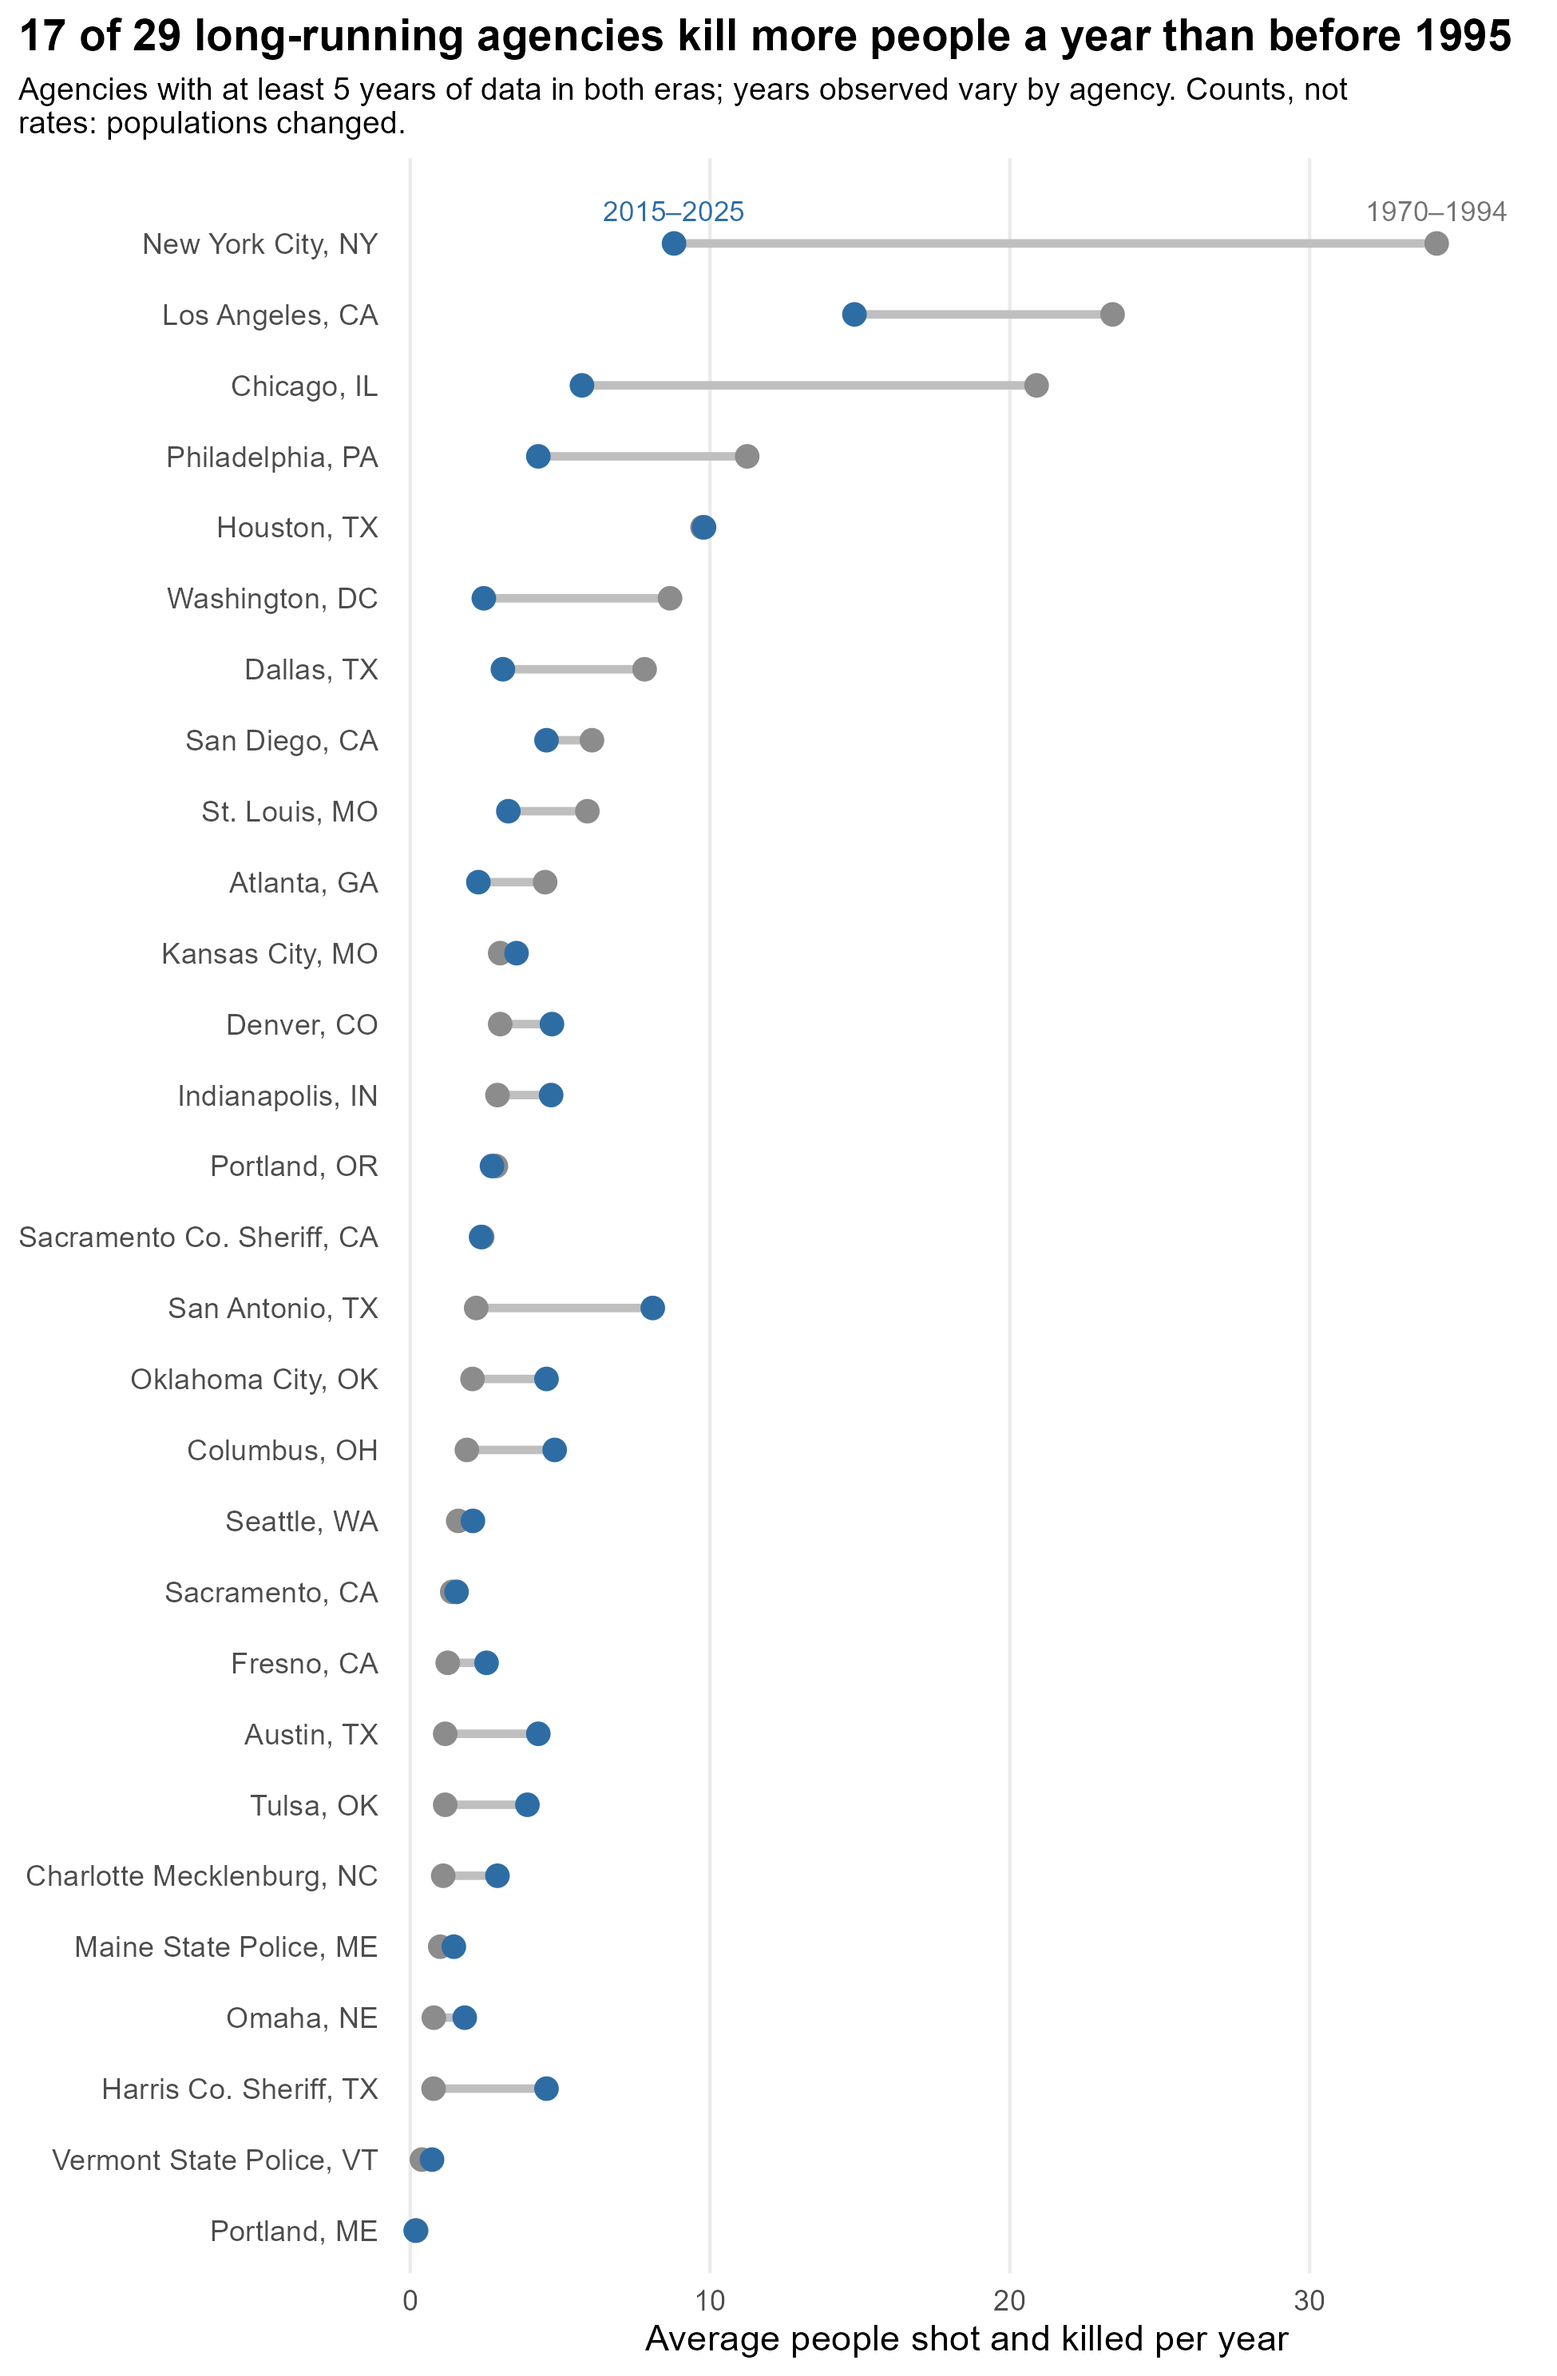
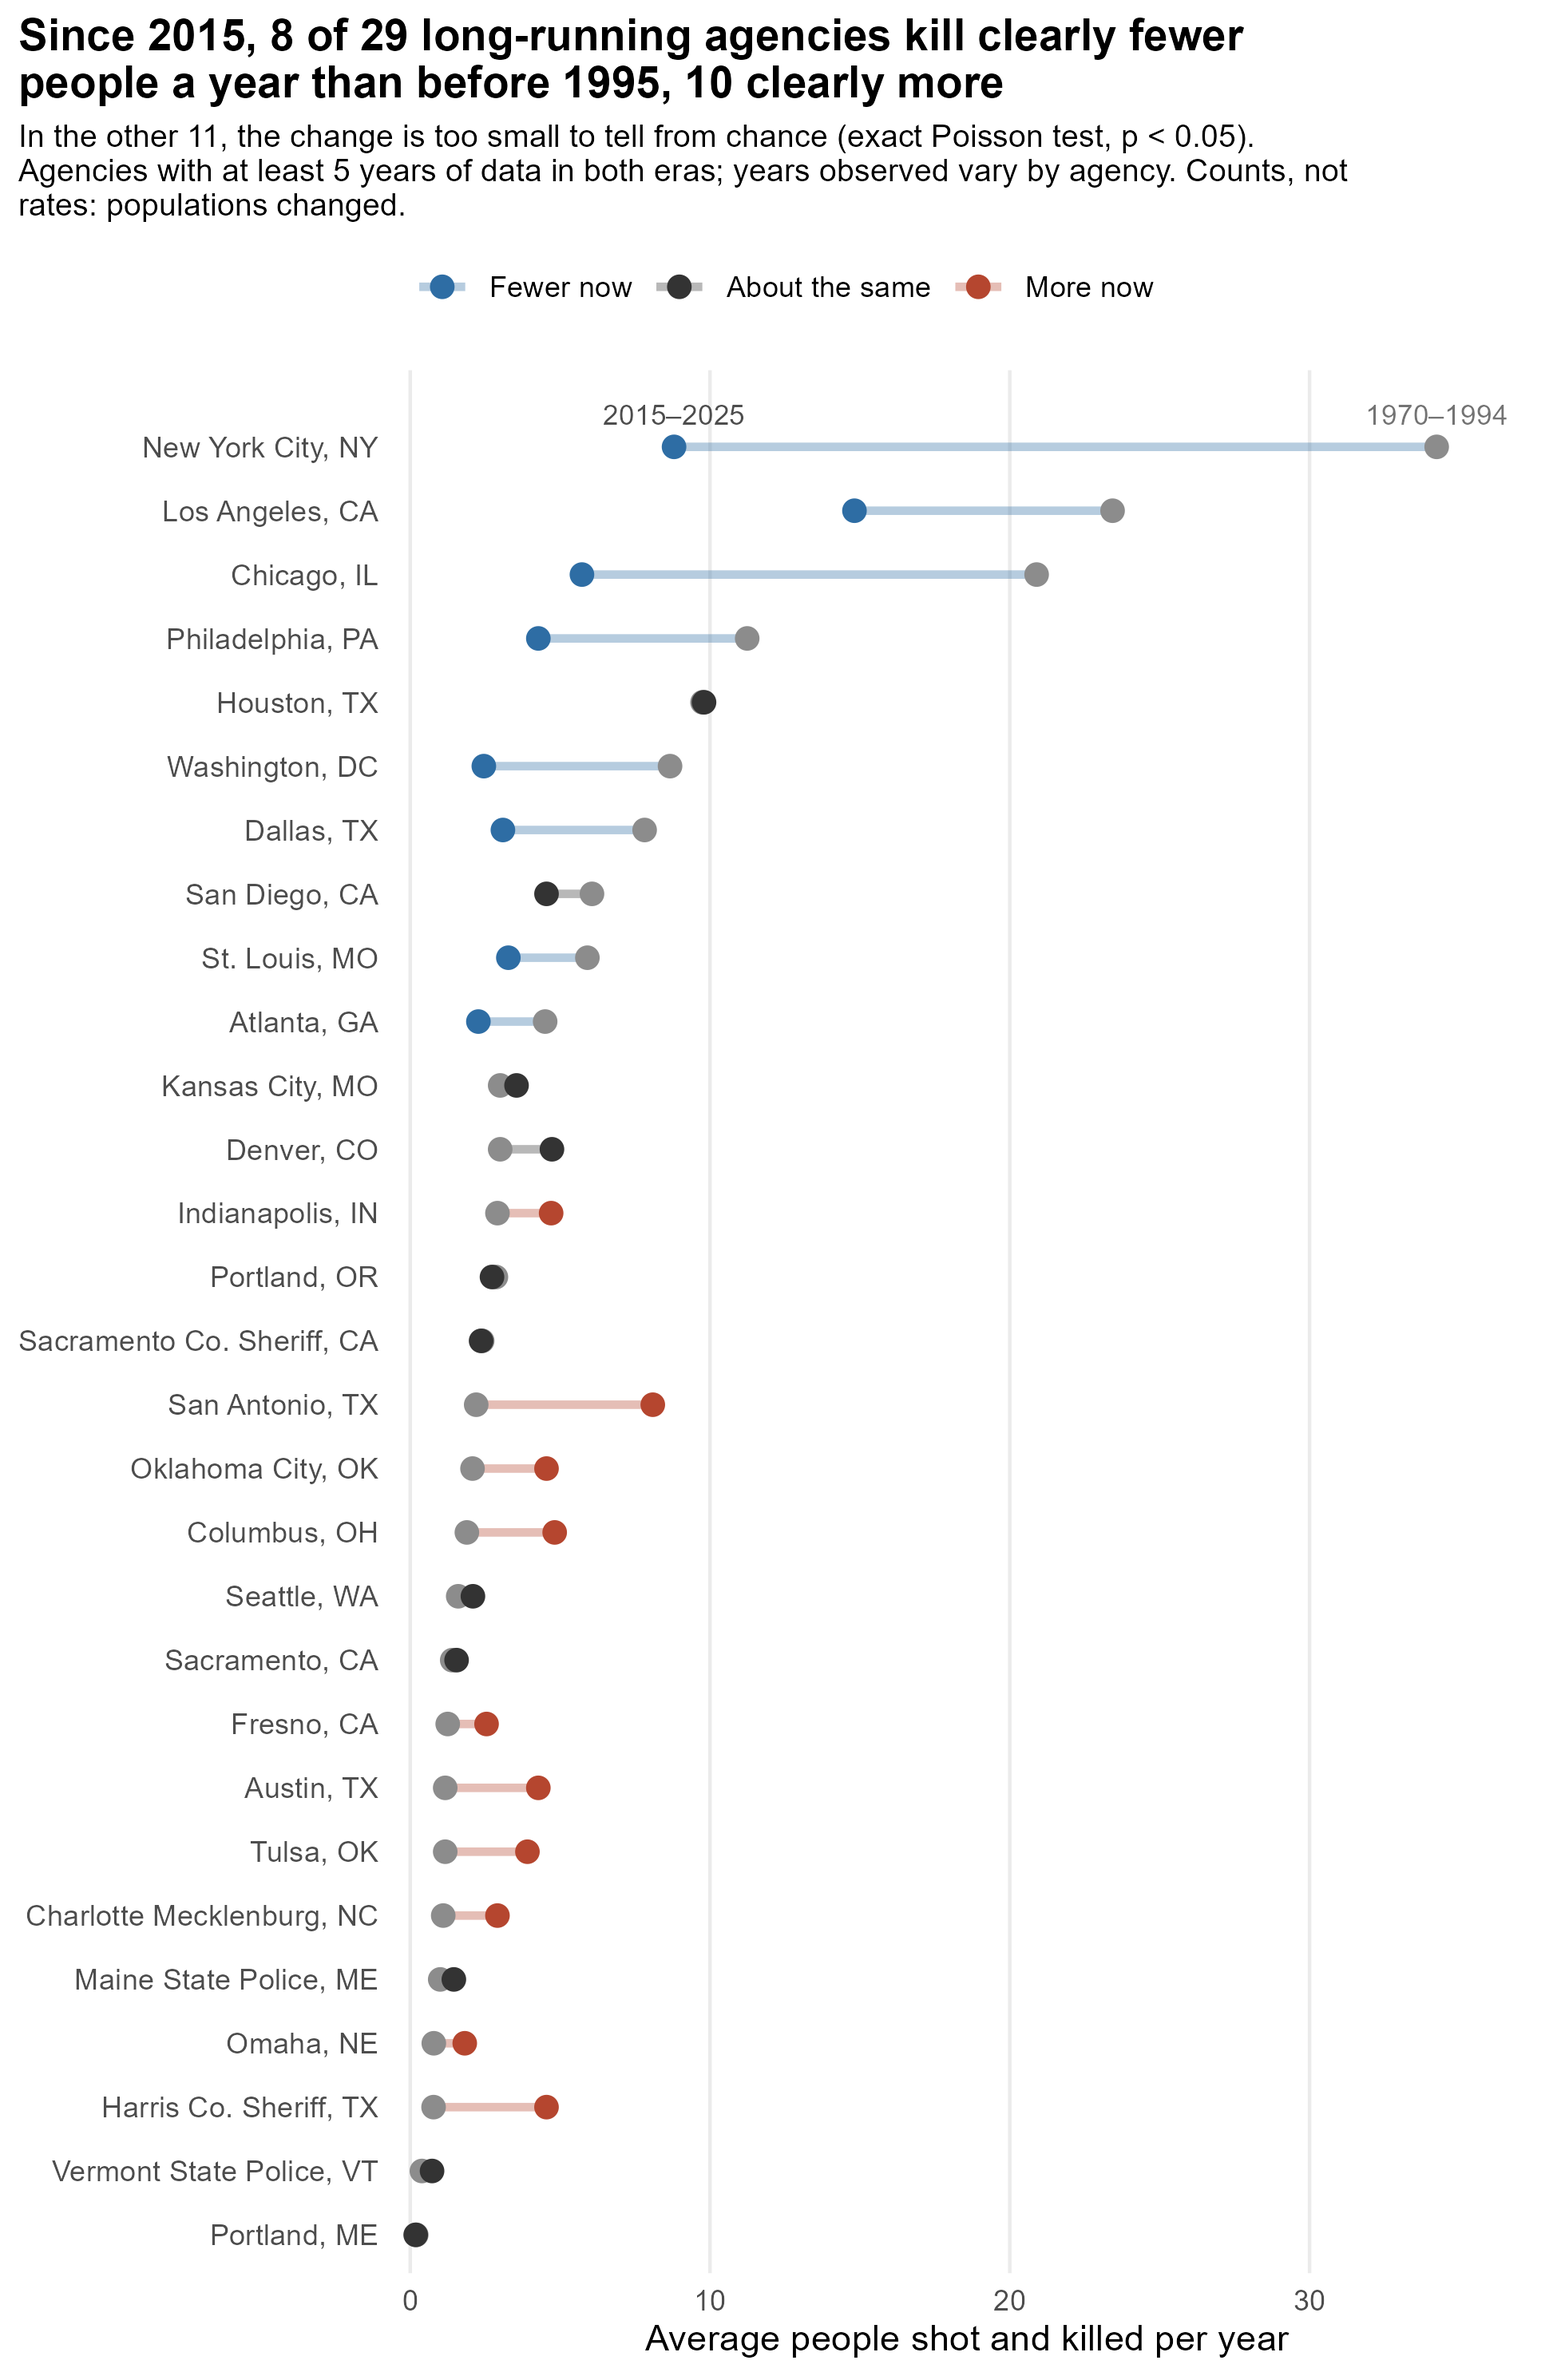
Then-vs-now: classify changes with an exact Poisson test (#19)
Instead of counting every agency whose rate fell as "lower now", test
each agency's two-era rates (exact Poisson rate comparison, p < .05)
and sort agencies into clearly fewer (8), clearly more (10), and about
the same (11). The figure colors by group and builds its title from the
counts; trend_summary.csv gains the three counts. README text and stale
alt text updated.

Changed region(s): [[0.0, 0.0, 0.9846, 0.9688], [0.8923, 0.1562, 0.9538, 0.1875], [0.2769, 0.0938, 0.3077, 0.125]]

diff --git a/README.md b/README.md
@@ -48,9 +48,9 @@ Some series are left out because they mix in nonfatal shootings:
 
 **What it shows.** The headline compares one fixed set of agencies: the 29 with at least five years of data both before 1995 and since 2015, shown as the dashed line. In those agencies, fatal police shootings since 2015 run 33% below their 1970–1994 level (ratio 0.67, 95% CI 0.46–0.98).
 
-![Then vs. now in twenty-five long-running agencies](output/figures/then_vs_now.png)
+![Then vs. now in 29 long-running agencies](output/figures/then_vs_now.png)
 
-**Then vs. now.** In the same 29 agencies, 12 kill fewer people a year now than before 1995. The drops are largest in New York, Chicago, and Los Angeles.
+**Then vs. now.** In the same 29 agencies, 8 kill clearly fewer people a year now than before 1995, 10 kill clearly more, and in 11 the change is too small to tell from chance (exact Poisson test of the two eras' yearly rates, p < .05). The drops are largest in New York, Chicago, and Los Angeles; the biggest increases are in San Antonio, Harris County, and Austin.
 
 These are raw counts, not rates per resident, and population change could push the per-resident comparison either way. Some of these cities grew; others, like St. Louis and Philadelphia, shrank. The years observed in each era also vary by agency (see the table).
 
